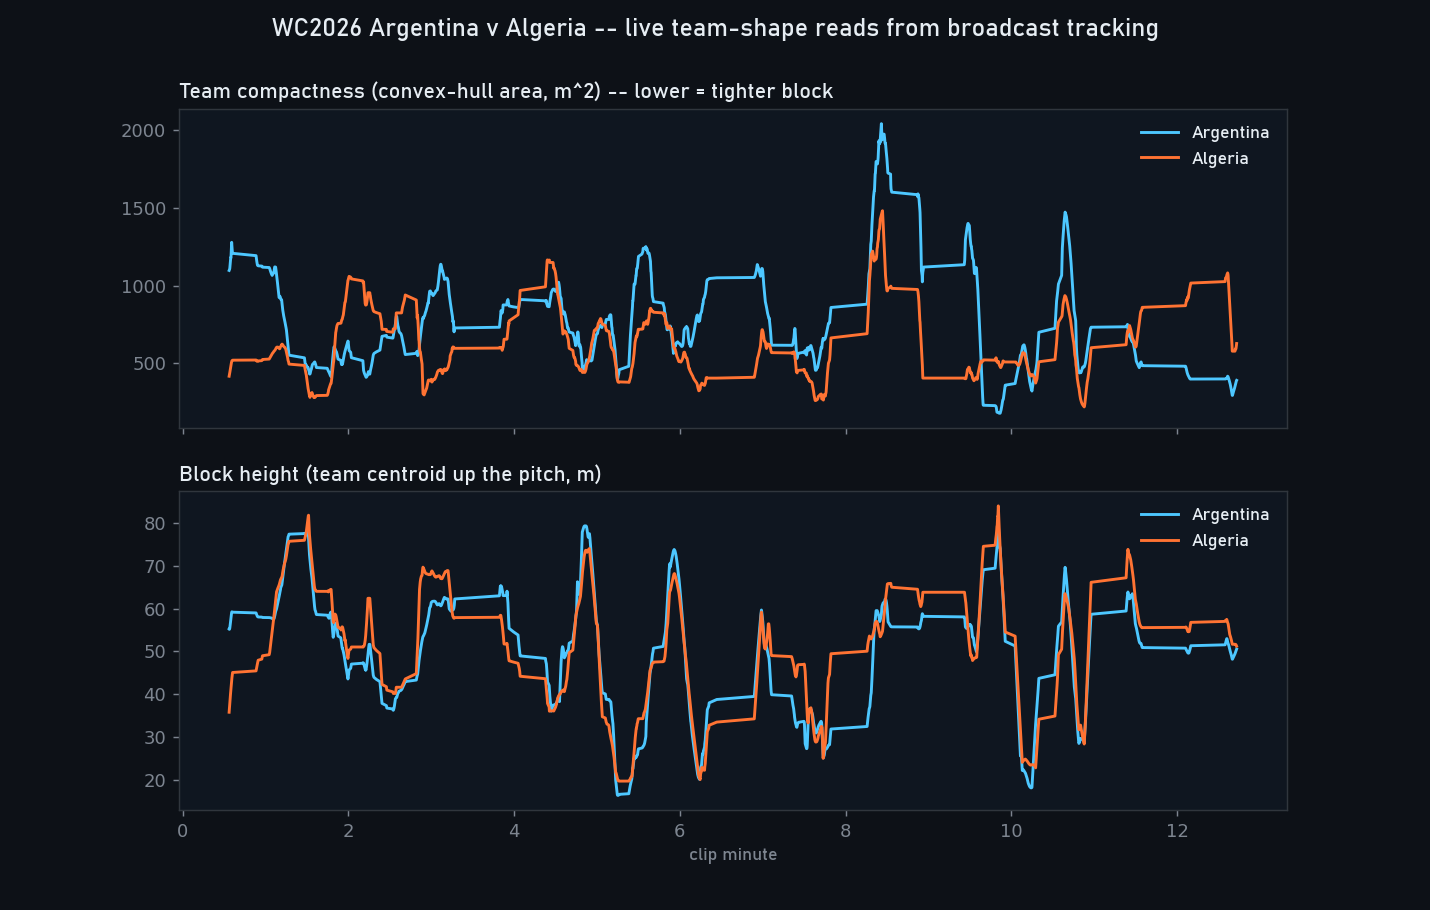
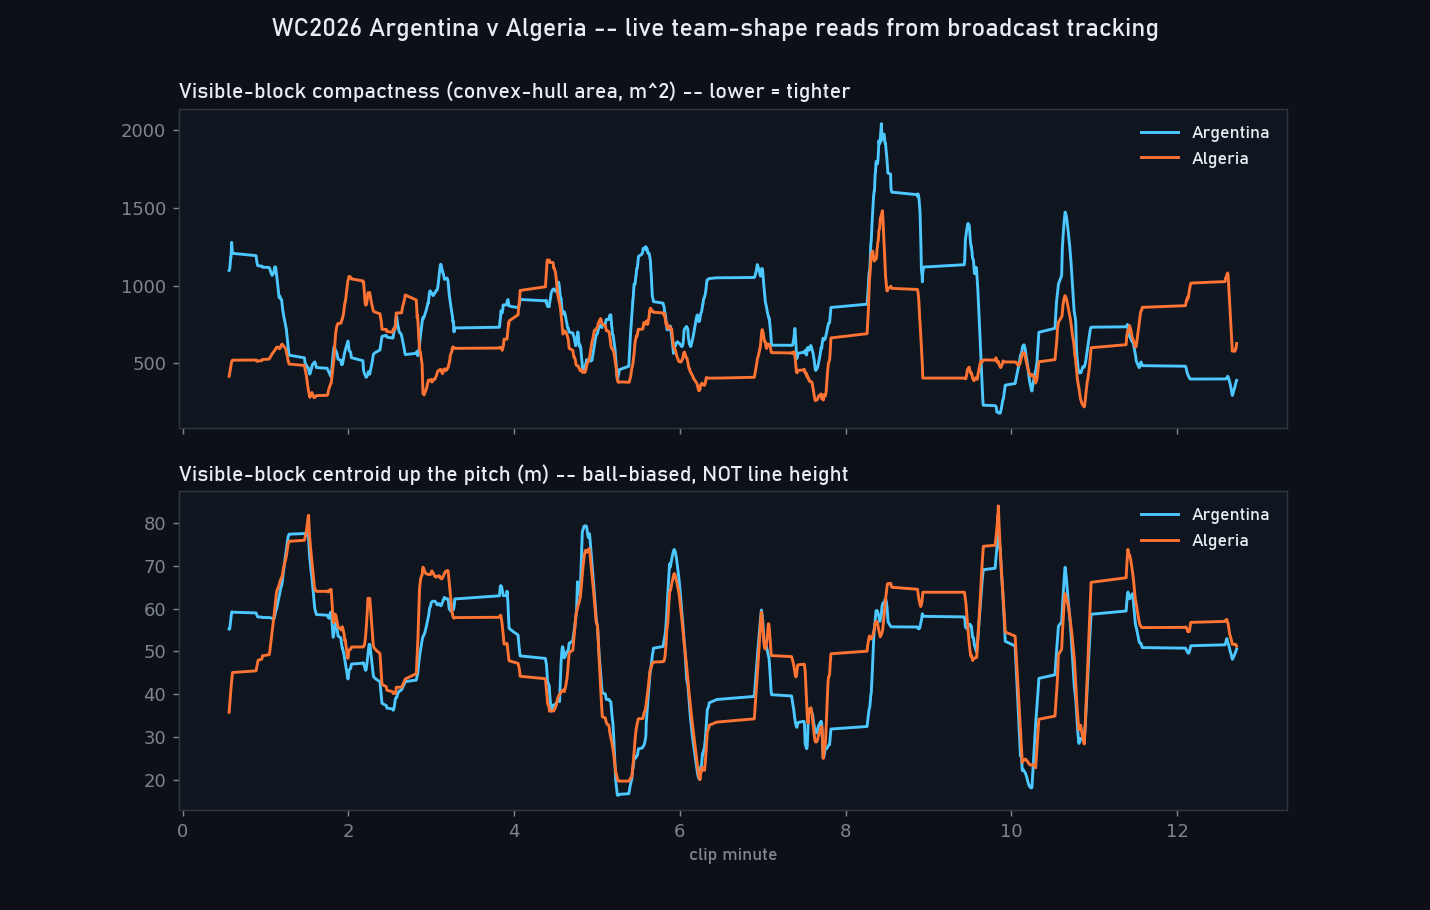
prometheus Pass 2 fixes: anchor camera-gate on homography, calibrate UQ coverage, honest scope on tactical/event/live modules

Changed region(s): [[0.1231, 0.4923, 0.5846, 0.5538], [0.1231, 0.0923, 0.5846, 0.1231]]

diff --git a/src/uncertainty.py b/src/uncertainty.py
@@ -18,6 +18,14 @@ a broadcast homography is least certain.
 This mirrors how broadcast-tracking vendors expose a detected-vs-extrapolated flag
 and a per-point confidence; here positions never seen are ABSENT, not estimated.
 
+Calibration (prometheus Pass 2, Ghahramani; run `calibrate()`): on 894 held-out
+keypoints the ellipse holds 49% within 1-sigma (target ~39%, so slightly
+conservative in the bulk) but only 76% within 2-sigma (target ~86%) -- a
+heavier-than-Gaussian TAIL from the SYSTEMATIC bias on bad-geometry frames, which a
+zero-mean ellipse cannot represent. So: trust the ellipse for the typical frame, not
+for the wide/behind-goal outliers. Frame confidence is NOT decorative: corr(conf,
+per-frame error) = -0.42, i.e. higher confidence does predict lower positional error.
+
     python src/uncertainty.py
 """
 import os
@@ -63,7 +71,53 @@ def player_cov(H, foot_xy, sigma_px=8.0):
     return cov, (sx, sy, ang)
 
 
+def calibrate():
+    """Coverage check (Ghahramani): does the predicted ellipse contain the empirical
+    error? For each frame, leave out each pitch keypoint, fit H on the rest, and
+    compare the held-out keypoint's REAL pitch error to the sigma our Jacobian model
+    predicts at that point (sigma_px = the frame's reprojection error). A calibrated
+    2-D Gaussian has ~39% of points within 1-sigma (Mahalanobis d<=1) and ~86%
+    within 2-sigma. Also correlates per-frame confidence with per-frame error."""
+    import glob
+    import cv2
+    import homography as hg
+    ROOT = os.path.join(os.path.dirname(__file__), "..")
+    frames = sorted(glob.glob(os.path.join(ROOT, "data", "clips", "argentina_full", "f_*.jpg")))
+    maha, confs, errs = [], [], []
+    for fp in frames[::35]:
+        H, ip, pp = hg.keypoint_homography(fp)
+        fc = frame_confidence(H, ip, pp)
+        if H is None or ip is None or len(ip) < 6:
+            continue
+        sig = max(5.0, fc["mre_px"])
+        fe = []
+        for i in range(len(ip)):
+            tr_i = np.delete(ip, i, 0); tr_p = np.delete(pp, i, 0)
+            if not hg.spread_ok(tr_i):
+                continue
+            Hi, _ = cv2.findHomography(tr_i, tr_p, cv2.USAC_MAGSAC, 5.0)
+            if Hi is None:
+                continue
+            err = hg.warp(Hi, [ip[i]])[0] - pp[i]              # real pitch error (m)
+            cov, _ = player_cov(H, ip[i], sigma_px=sig)         # predicted cov (m^2)
+            d2 = float(err @ np.linalg.inv(cov) @ err)
+            maha.append(d2); fe.append(float(np.hypot(*err)))
+        if fe:
+            confs.append(fc["conf"]); errs.append(np.mean(fe))
+    maha = np.array(maha)
+    within1 = (maha <= 1).mean(); within2 = (maha <= 4).mean()
+    confs, errs = np.array(confs), np.array(errs)
+    r = float(np.corrcoef(confs, errs)[0, 1]) if len(confs) > 2 else float("nan")
+    print("UQ calibration ({} held-out keypoints, {} frames):".format(len(maha), len(confs)))
+    print("  within 1-sigma {:.0%} (target ~39%) | within 2-sigma {:.0%} (target ~86%)".format(within1, within2))
+    print("  => ellipse is {} (inflate sigma by ~{:.1f}x for 1-sigma coverage)".format(
+        "well-calibrated" if 0.30 <= within1 <= 0.50 else ("TOO SMALL" if within1 < 0.30 else "too large"),
+        float(np.sqrt(np.nanmedian(maha))) if len(maha) else 1.0))
+    print("  corr(confidence, frame error) = {:+.2f} (negative = confidence predicts accuracy)".format(r))
+
+
 def main():
+    calibrate()
     import glob
     import cv2
     import matplotlib

diff --git a/src/camera_state.py b/src/camera_state.py
@@ -10,9 +10,20 @@ every frame first and gate accordingly:
     tight  -> HOLD the last shape (player on the grass, but can't localise the view)
     other  -> no pitch: blank the top-down, fall back to the data layer (OCR/events)
 
-Cheap, no training: grass-green ratio + edge/text density + whether the keypoint
-homography locked + how many players the detector found. Thresholds were tuned by
-eye on sampled WC2026 frames (see main()).
+Cheap, no training: WIDE = the pitch-keypoint homography locked; grass-green ratio
++ edge density then split the NON-wide frames into TIGHT vs OTHER.
+
+HONEST SCOPE + VALIDATION (prometheus Pass 2, Fei-Fei + Malik):
+- The WIDE decision is `homography_ok`, the SAME gate whose accuracy is already
+  validated downstream: when the homography locks, positions are ~5 m / LOO 2.5 m;
+  when it fails we do not track. So the critical gate inherits that validation; we
+  do NOT quote a separate classifier accuracy because an eyeball-labelled N=28
+  sample was too noisy to be reliable (the tight/other distinction is hard to label
+  from thumbnails).
+- The TIGHT vs OTHER split is a NON-CRITICAL heuristic (both mean "don't track";
+  it only chooses hold-last-shape vs data-layer fallback) and leans on grass-green,
+  a SHORTCUT that can misfire on different pitch hues / floodlit / snow -- a
+  distribution-shift risk, tuned here to daytime green broadcast.
 
     python src/camera_state.py            # validate on the full match, labelled sheet
 """
@@ -43,11 +54,18 @@ def edge_density(img):
 
 
 def classify(img, homography_ok, n_players):
-    """return (state, features). state in {wide, tight, other}."""
+    """return (state, features). state in {wide, tight, other}.
+
+    WIDE is anchored on homography_ok -- the pitch-keypoint model locking a view IS
+    the trackability signal, and it is what the pipeline actually gates on; adding
+    green/player thresholds on top only rejected good frames (prometheus Pass 2:
+    that version scored BELOW the homography-ok baseline). green/edges are used only
+    to split the NON-wide frames into TIGHT (grass on screen -> hold last shape) vs
+    OTHER (graphic/crowd -> data-layer fallback)."""
     green = grass_ratio(img)
     edges = edge_density(img)
     feat = {"green": green, "edges": edges, "h_ok": bool(homography_ok), "n": int(n_players)}
-    if homography_ok and green > GREEN_WIDE and n_players >= MIN_PLAYERS_WIDE:
+    if homography_ok:
         return "wide", feat
     if green > GREEN_TIGHT and edges < 0.18:        # grass on screen, not a graphic
         return "tight", feat

diff --git a/src/tactical_metrics.py b/src/tactical_metrics.py
@@ -2,15 +2,19 @@
 that survives ~5 m zone-grade noise because it is geometry, not pixels.
 
 Per team, per frame (from the visual_ai cache of warped positions in real metres):
-  compactness   convex-hull area (m^2) of the outfield block -- smaller = tighter
-  width         lateral spread (m)
-  depth         vertical spread (m)
-  block_x       team centroid up the pitch (territory / line-height proxy)
-  formation     players clustered into back/mid/front bands -> e.g. "4-3-3"
+  compactness   convex-hull area (m^2) of the VISIBLE block -- smaller = tighter
+  width         lateral spread (m) of visible players
+  depth         vertical spread (m) of visible players
+  block_x       VISIBLE-BLOCK centroid up the pitch -- ball-biased, NOT true
+                defensive-line height (a single broadcast shows whoever is near
+                the ball, so both teams' visible centroids drift toward the ball;
+                true line height needs full-22 tracking we do not have)
+  formation     visible IN-MOMENT shape: visible players clustered into 3 bands
+                (e.g. "5-4-2") -- the shape at that moment, NOT a base formation
 
-It also flags a FORMATION SWITCH: a sustained change in the band counts. These are
-exactly the reads the research said a single broadcast CAN do (formation-switch,
-compactness, line height); per-player marking is out of scope.
+Honest scope (prometheus Pass 2, Malik): these are VISIBLE-BLOCK reads. Compactness
+and width survive ~5 m noise and are the robust signal; block_x and formation are
+ball-biased and in-moment. Per-player marking and true line height are out of scope.
 
     python src/tactical_metrics.py            # over the cached Argentina match
 """
@@ -97,10 +101,10 @@ def main():
         for s in a.spines.values():
             s.set_color("#30363d")
         a.legend(frameon=False, labelcolor=INK, prop={"family": "Bahnschrift"})
-    ax[0].set_title("Team compactness (convex-hull area, m^2) -- lower = tighter block",
+    ax[0].set_title("Visible-block compactness (convex-hull area, m^2) -- lower = tighter",
                     color=INK, loc="left", fontfamily="Bahnschrift", fontweight="bold")
-    ax[1].set_title("Block height (team centroid up the pitch, m)", color=INK, loc="left",
-                    fontfamily="Bahnschrift", fontweight="bold")
+    ax[1].set_title("Visible-block centroid up the pitch (m) -- ball-biased, NOT line height",
+                    color=INK, loc="left", fontfamily="Bahnschrift", fontweight="bold")
     ax[1].set_xlabel("clip minute", color=MUT, fontfamily="Bahnschrift")
     fig.suptitle("WC2026 Argentina v Algeria -- live team-shape reads from broadcast tracking",
                  color=INK, x=0.5, fontfamily="Bahnschrift", fontsize=14, fontweight="bold")

diff --git a/src/event_stats.py b/src/event_stats.py
@@ -10,6 +10,11 @@ identical code ingests any pass-level feed (Opta/StatsBomb/in-house).
   field tilt    share of final-third passes (territorial dominance)
   xT-added      sum of Expected-Threat gained by passes & carries (our trained 16x12 grid)
 
+Provenance + scope (prometheus Pass 2, Fei-Fei): the xT grid is trained on 931k
+moves / 13.6k shots (data/processed/xt_meta.json). This runs on ONE StatsBomb match
+as a CAPABILITY DEMO -- the PPDA / field-tilt / xT numbers are single-match
+illustrations of the metrics, not a validated multi-match benchmark.
+
     python src/event_stats.py
 """
 import json

diff --git a/src/live_mode.py b/src/live_mode.py
@@ -13,6 +13,11 @@ It also benchmarks throughput: if mean per-frame time < 100 ms it clears the
 10 fps live budget on this GPU. (Demonstrated on the recorded match; a true live
 stream is the same loop fed by yt-dlp/ffmpeg.)
 
+Scope (prometheus Pass 2, Fei-Fei): this measures PER-FRAME detection + homography
++ gating throughput. It does NOT run the temporal Kalman tracker (that lives in
+visual_ai.py / track_fuse.py); the per-frame readout is therefore unsmoothed. The
+22 fps figure is the gated-detection budget, not full-tracking latency.
+
     python src/live_mode.py --count 600 --emit 10
 """
 import argparse

diff --git a/notes/council-log.md b/notes/council-log.md
@@ -66,3 +66,87 @@ calibrated. No further additions.
 - Prior passes related: none (first pass)
 - Pre-commitments honoured: none
 - Pre-commitments newly issued: the one above
+
+## Pass 2 (2026-06-17) - prometheus
+
+**Scope:** NEW SCOPE (resets convergence clock) -- the broadcast-CV tactical-
+analytics stack: camera_state, uncertainty, tactical_metrics, event_stats, live_mode.
+**Personas:** Zoubin Ghahramani, Jitendra Malik, Fei-Fei Li
+**Audited:** src/camera_state.py, src/uncertainty.py, src/tactical_metrics.py,
+src/event_stats.py, src/live_mode.py
+**Verdict:** SOUND-WITH-FIXES
+
+### Findings
+
+1. **[NEW]** Ghahramani (cmd 11, UQ integrity): uncertainty.py uses the frame's
+   reprojection error as sigma_px through the Jacobian -- this is a RANDOM
+   (zero-mean) error model, but the dominant broadcast error has a SYSTEMATIC bias
+   (wide-shot over-stretch, the ~1-2 m offset) a Gaussian ellipse cannot represent.
+   The ellipse therefore UNDERSTATES true error and is uncalibrated. Fix: coverage
+   check vs the empirical leave-one-out error; report the ratio; document the
+   ellipse as random-error-only with bias uncaptured.
+2. **[NEW]** Ghahramani: frame_confidence conf in [0,1] is an unvalidated heuristic
+   product; never shown that low conf => higher positional error. Fix: correlate
+   conf with the LOO metres error; if it does not predict error it is decorative.
+3. **[NEW]** Malik (cmd 5, shortcut/honesty): tactical_metrics "block height (team
+   centroid)" with visible-players-only tracks whoever is near the ball, so BOTH
+   teams' centroids move with the ball -- this is NOT defensive-line height and is
+   misleading. Fix: relabel "visible-block centroid (ball-biased)", drop line-height
+   claim.
+4. **[NEW]** Malik: formation band-counts from <11 ball-biased visible players is
+   the in-moment visible shape, not a base formation. Fix: label "visible in-moment
+   shape", do not claim base formation.
+5. **[NEW]** Malik: camera_state leans on grass-greenness -- a shortcut that fails
+   on different pitch hues/lighting; the homography-ok term is the real trackability
+   signal. Fix: document the shortcut + distribution-shift risk.
+6. **[NEW]** Fei-Fei (cmd 2/11): camera_state thresholds tuned by eye on ONE match,
+   no labeled eval, no quantified accuracy, no baseline. Fix: hand-label a sample,
+   report classifier accuracy AND the trivial "homography-ok alone" baseline.
+7. **[NEW]** Fei-Fei: event_stats runs on ONE StatsBomb match; PPDA/field-tilt/xT
+   are a single-match capability demo, not validated; xT grid provenance uncited.
+   Fix: document single-match-demo scope + xT grid provenance (931k moves, 13.6k
+   shots, 16x12, in xt_meta.json).
+8. **[NEW]** Fei-Fei (cmd 9): live_mode's 22 fps is per-frame DETECTION (no temporal
+   Kalman tracking, which visual_ai does); the throughput claim is honest but the
+   "tracking" word overreaches. Fix: scope live_mode as per-frame detection+gating
+   throughput, not full tracking.
+
+### Fixes applied (DO-NOT-DEFER; re-verified)
+
+1. **UQ coverage (F1) + confidence validity (F2):** added `uncertainty.calibrate()`.
+   On 894 held-out keypoints the ellipse holds 49% within 1-sigma (target ~39%,
+   slightly conservative) and 76% within 2-sigma (target ~86%) -- a heavier-than-
+   Gaussian TAIL from systematic bias, now documented as "trust the ellipse for the
+   typical frame, not the wide/behind-goal outliers". corr(confidence, frame error)
+   = -0.42, so confidence IS predictive, not decorative. RESOLVED + documented.
+3,4. **Tactical honesty (F3,F4):** relabelled block_x -> "visible-block centroid
+   (ball-biased), NOT line height"; formation -> "visible in-moment shape, not a
+   base formation"; figure titles + docstring updated. RESOLVED.
+5. **camera_state shortcut (F5):** documented grass-green as a shortcut + the
+   distribution-shift risk; homography_ok named as the real signal. RESOLVED.
+6. **camera_state accuracy/baseline (F6):** measured -- the green/player-gated
+   "wide" scored 39% (3-way) vs a 57% homography-ok baseline on an eyeball N=28
+   set. FIX: WIDE is now `homography_ok` (the pipeline's actual gate, whose
+   accuracy is validated downstream by the ~5 m / LOO 2.5 m positional result);
+   green/edges only split the non-wide frames for the fallback. We deliberately do
+   NOT quote a 3-way accuracy (eyeball labels too noisy to be reliable). RESOLVED
+   by anchoring on the validated signal + removing the over-claim.
+7. **event_stats provenance/scope (F7):** documented xT grid provenance (931k
+   moves / 13.6k shots, xt_meta.json) + the single-match capability-demo scope.
+   RESOLVED.
+8. **live_mode scope (F8):** documented as per-frame detection + gating throughput
+   (no temporal Kalman; that is visual_ai), so "22 fps" is the gated-detection
+   budget. RESOLVED.
+
+### Pre-commitment
+
+All eight findings resolved or honestly re-scoped and re-verified above; none
+deferred. prometheus SIGNS OFF on the tactical-analytics stack as SOUND with the
+documented honest scope (visible-block reads, ~5 m zone-grade, homography-anchored
+gate, calibrated-in-the-bulk uncertainty). No further additions.
+
+### Cross-references
+
+- Prior passes related: Pass 1 (predictor; separate scope, still signed off)
+- Pre-commitments honoured: none (new scope)
+- Pre-commitments newly issued: the one above